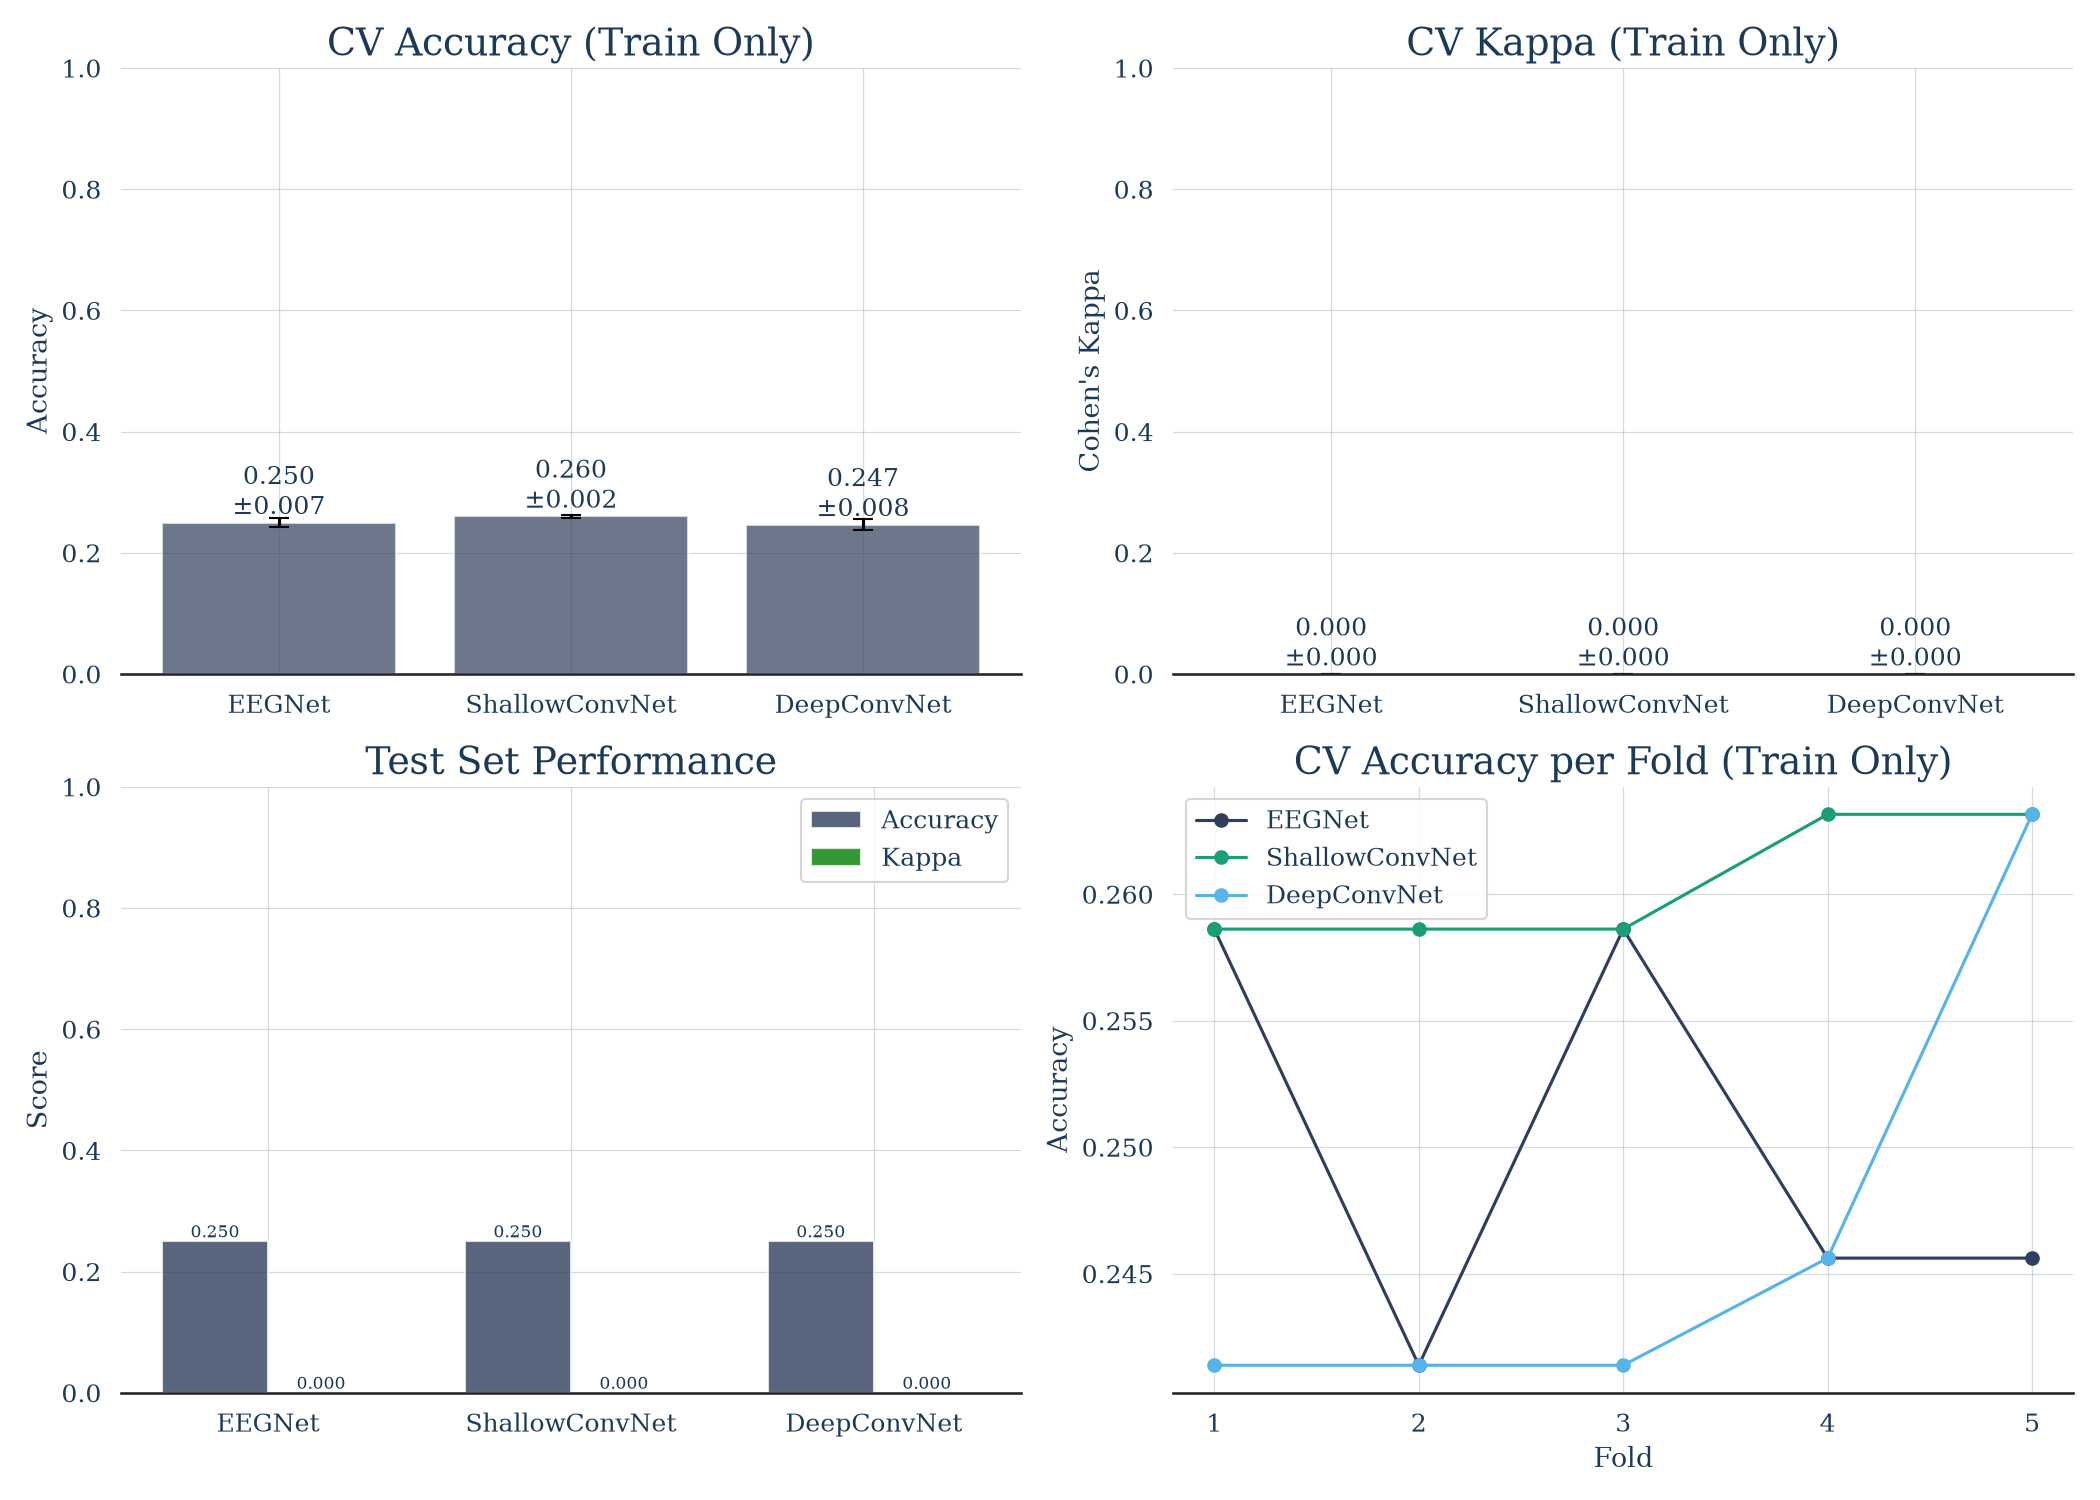
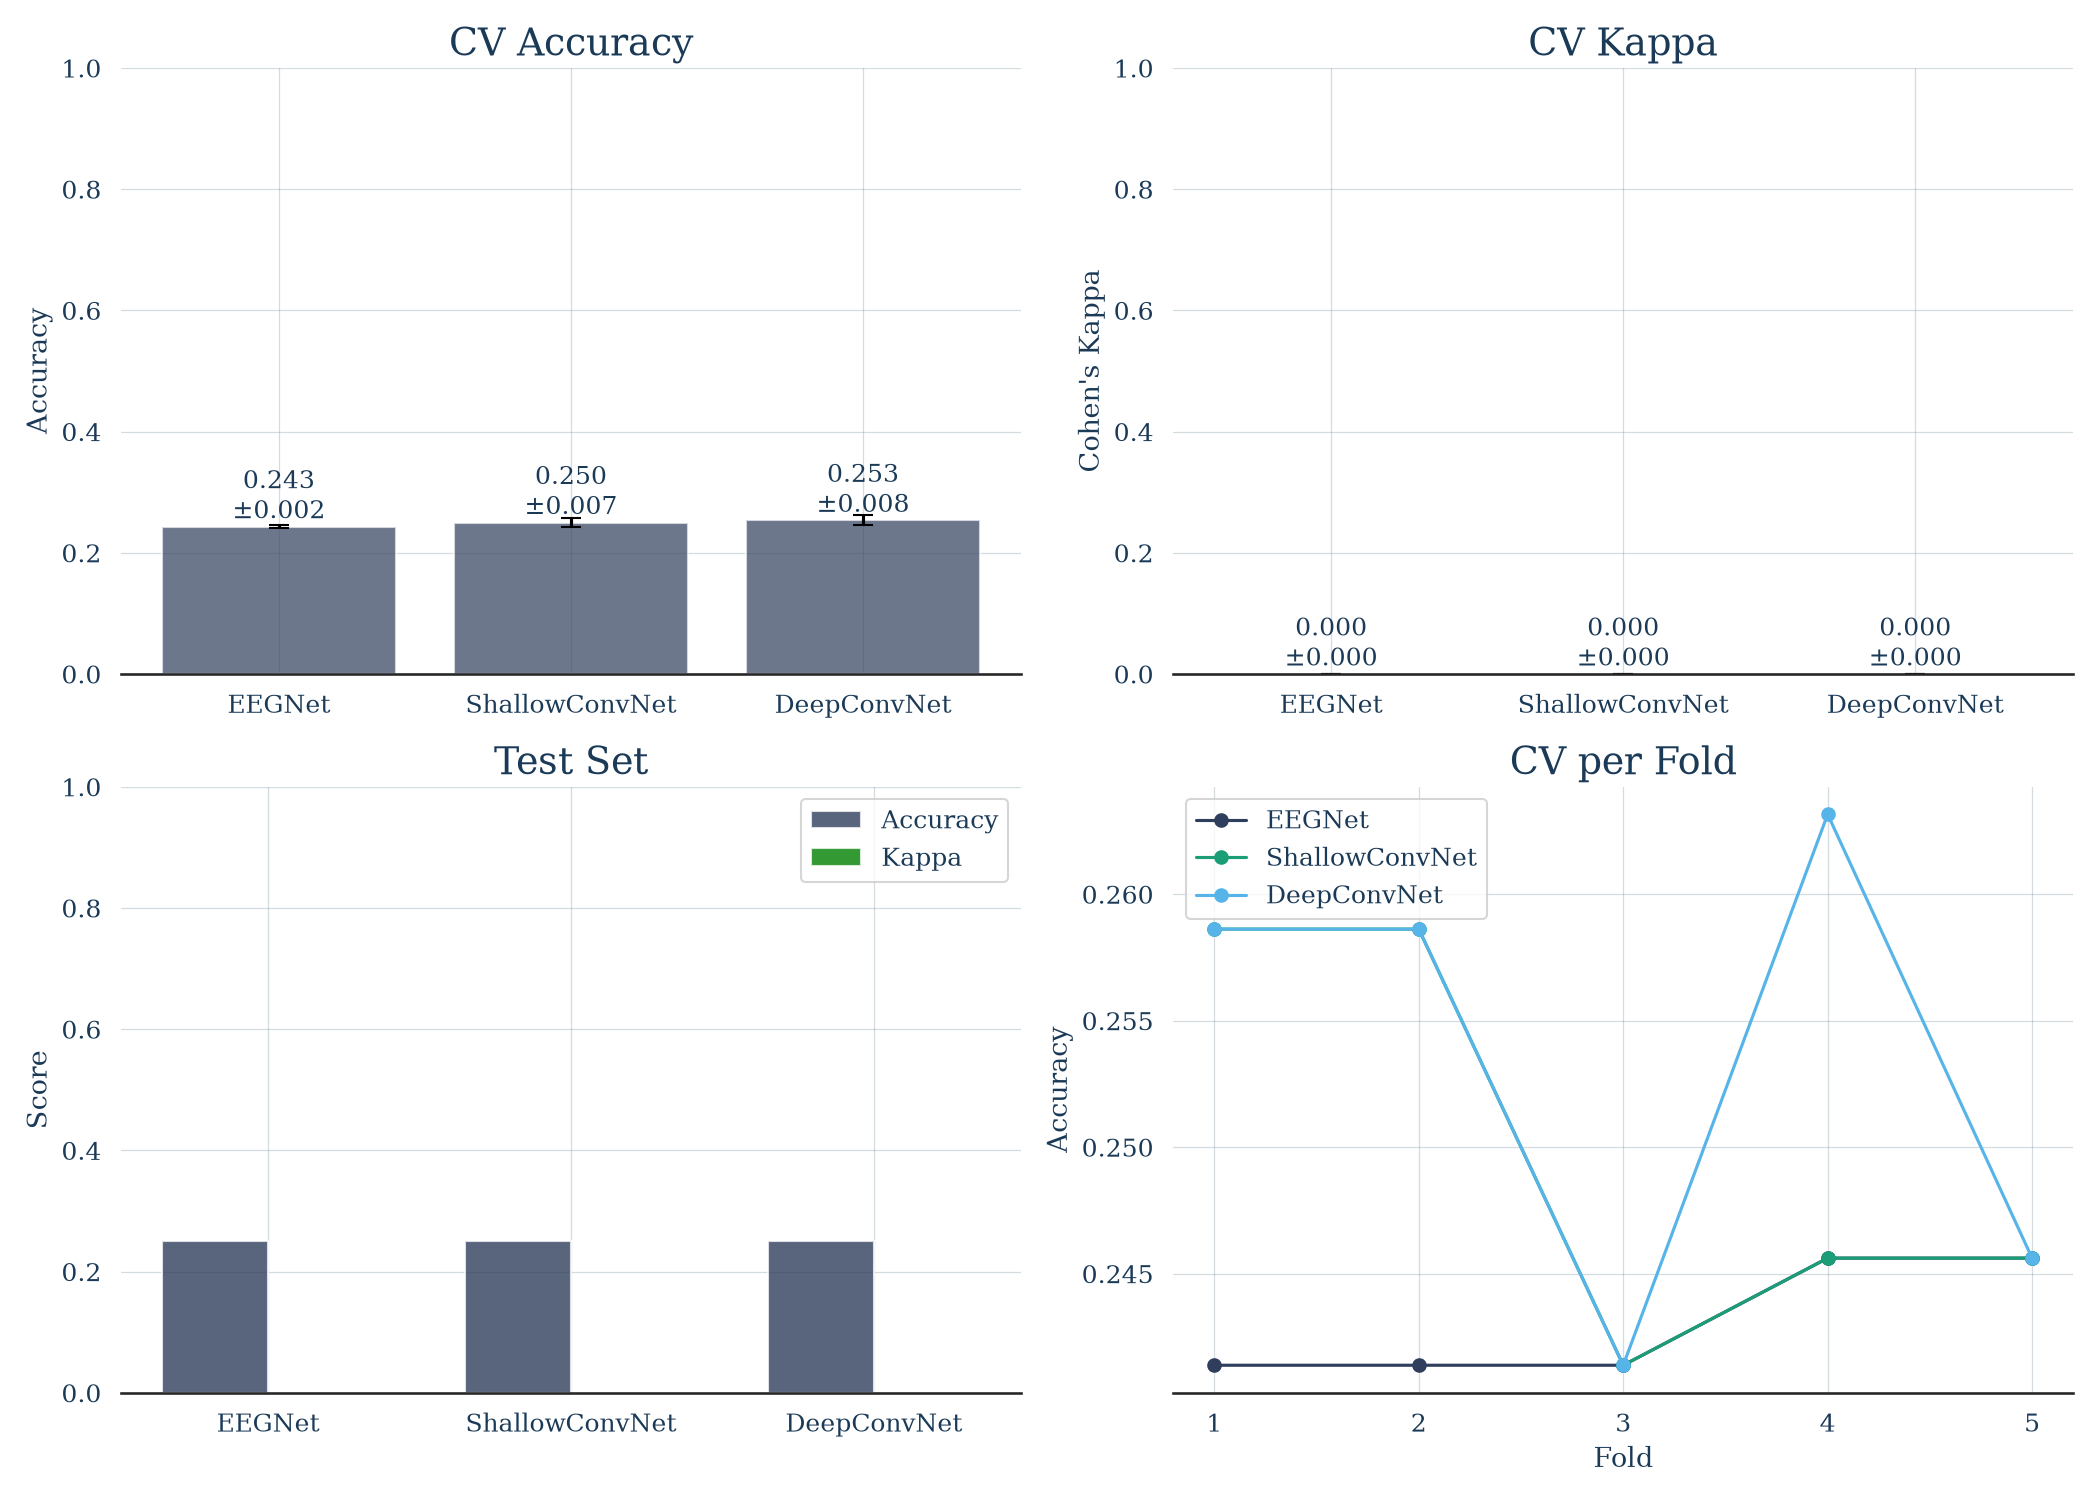
feat: 新增EEG运动想象解码脚本并更新结果文件
新增07_new_project.py完整的脑电解码实验脚本，包含数据加载预处理、模型搭建、交叉验证、测试集评估和结果可视化，同时更新了对应的结果CSV和图片文件

diff --git a/07_new_project.py b/07_new_project.py
@@ -1,0 +1,238 @@
+import numpy as np
+import torch
+import pandas as pd
+import matplotlib.pyplot as plt
+from braindecode import EEGClassifier
+from braindecode.datasets import MOABBDataset
+from braindecode.preprocessing import (
+    preprocess,
+    PickTypes,
+    Filter,
+    Resample,
+    Rescale,
+    SetEEGReference,
+    create_windows_from_events,
+)
+from braindecode.models import EEGNet, ShallowFBCSPNet, Deep4Net
+from skorch.callbacks import EarlyStopping
+from skorch.helper import predefined_split
+from sklearn.model_selection import StratifiedKFold, train_test_split
+from sklearn.metrics import accuracy_score, cohen_kappa_score
+from torch.utils.data import TensorDataset
+import mne
+
+print("=" * 60)
+print("EEG Motor Imagery Decoding with braindecode API")
+print("=" * 60)
+
+CONFIG = {
+    "subject_id": 1,
+    "n_classes": 4,
+    "n_channels": 22,
+    "sfreq": 128,
+    "n_times": 512,
+    "dropout": 0.3,
+    "batch_size": 32,
+    "n_epochs": 50,
+    "lr": 0.001,
+    "weight_decay": 1e-4,
+    "patience": 15,
+    "n_folds": 5,
+    "random_seed": 42,
+}
+
+torch.manual_seed(CONFIG["random_seed"])
+np.random.seed(CONFIG["random_seed"])
+
+device = "cuda" if torch.cuda.is_available() else ("mps" if torch.backends.mps.is_available() else "cpu")
+print(f"Device: {device}")
+
+print("\n[1/5] Loading & preprocessing data...")
+mne.set_log_level("ERROR")
+dataset = MOABBDataset("BNCI2014_001", subject_ids=[CONFIG["subject_id"]])
+
+preprocess(dataset, [
+    PickTypes(eeg=True, misc=False),
+    Filter(l_freq=4.0, h_freq=38.0),
+    Resample(sfreq=CONFIG["sfreq"]),
+    SetEEGReference(ref_channels="average"),
+    Rescale(scalings=1e-6),
+])
+
+windows_dataset = create_windows_from_events(
+    dataset,
+    trial_start_offset_samples=0,
+    trial_stop_offset_samples=0,
+    window_size_samples=CONFIG["n_times"],
+    window_stride_samples=CONFIG["n_times"],
+    preload=True,
+)
+
+splits = windows_dataset.split("session")
+train_key = test_key = None
+for key in splits.keys():
+    ks = str(key).lower()
+    if "train" in ks:
+        train_key = key
+    elif "test" in ks:
+        test_key = key
+if not train_key or not test_key:
+    keys = list(splits.keys())
+    train_key, test_key = keys[0], keys[1]
+
+train_ds = splits[train_key]
+test_ds = splits[test_key]
+print(f"Train: {len(train_ds)} samples | Test: {len(test_ds)} samples")
+
+X_train_cv = np.array([train_ds[i][0] for i in range(len(train_ds))])
+y_train_cv = np.array([train_ds[i][1] for i in range(len(train_ds))])
+X_test = np.array([test_ds[i][0] for i in range(len(test_ds))])
+y_test = np.array([test_ds[i][1] for i in range(len(test_ds))])
+
+print("\n[2/5] Setting up models...")
+model_configs = {
+    "EEGNet": dict(
+        n_chans=CONFIG["n_channels"], n_times=CONFIG["n_times"],
+        n_outputs=CONFIG["n_classes"], F1=8, F2=16, D=2,
+        kernel_length=64, pool1_kernel_size=4, pool2_kernel_size=8,
+        drop_prob=CONFIG["dropout"],
+    ),
+    "ShallowConvNet": dict(
+        n_chans=CONFIG["n_channels"], n_times=CONFIG["n_times"],
+        n_outputs=CONFIG["n_classes"],
+    ),
+    "DeepConvNet": dict(
+        n_chans=CONFIG["n_channels"], n_times=CONFIG["n_times"],
+        n_outputs=CONFIG["n_classes"],
+    ),
+}
+
+model_classes = {
+    "EEGNet": EEGNet,
+    "ShallowConvNet": ShallowFBCSPNet,
+    "DeepConvNet": Deep4Net,
+}
+
+for name, cls in model_classes.items():
+    m = cls(**model_configs[name])
+    print(f"  {name}: {sum(p.numel() for p in m.parameters()):,} params")
+
+def make_classifier(model_class, model_cfg, valid_ds=None):
+    model = model_class(**model_cfg)
+    callbacks = [EarlyStopping(patience=CONFIG["patience"], monitor="valid_loss")] if valid_ds else []
+    return EEGClassifier(
+        model,
+        max_epochs=CONFIG["n_epochs"],
+        optimizer__lr=CONFIG["lr"],
+        optimizer__weight_decay=CONFIG["weight_decay"],
+        batch_size=CONFIG["batch_size"],
+        device=device,
+        callbacks=callbacks,
+        train_split=predefined_split(valid_ds) if valid_ds else None,
+    )
+
+print("\n[3/5] Cross-validation...")
+skf = StratifiedKFold(n_splits=CONFIG["n_folds"], shuffle=True, random_state=CONFIG["random_seed"])
+cv_results = {name: [] for name in model_classes}
+
+for fold, (train_idx, val_idx) in enumerate(skf.split(X_train_cv, y_train_cv)):
+    X_tr, X_val = X_train_cv[train_idx], X_train_cv[val_idx]
+    y_tr, y_val = y_train_cv[train_idx], y_train_cv[val_idx]
+    print(f"\nFold {fold+1}/{CONFIG['n_folds']} | Train:{len(X_tr)} Val:{len(X_val)}")
+
+    X_val_t = torch.from_numpy(X_val).float()
+    y_val_t = torch.from_numpy(y_val).long()
+    valid_ds = TensorDataset(X_val_t, y_val_t)
+
+    for model_name in model_classes:
+        print(f"  {model_name}...", end=" ")
+        clf = make_classifier(model_classes[model_name], model_configs[model_name], valid_ds)
+        clf.fit(torch.from_numpy(X_tr).float(), torch.from_numpy(y_tr).long())
+        y_pred = clf.predict(X_val_t)
+        acc = accuracy_score(y_val, y_pred)
+        kappa = cohen_kappa_score(y_val, y_pred)
+        cv_results[model_name].append({"accuracy": acc, "kappa": kappa})
+        print(f"Acc={acc:.4f}, Kappa={kappa:.6f}")
+
+print("\n[4/5] Final test-set evaluation...")
+test_results = {}
+
+for model_name in model_classes:
+    print(f"\n  {model_name}...")
+    X_tr, X_val, y_tr, y_val = train_test_split(
+        X_train_cv, y_train_cv, test_size=0.1,
+        random_state=CONFIG["random_seed"], stratify=y_train_cv
+    )
+    X_val_t = torch.from_numpy(X_val).float()
+    y_val_t = torch.from_numpy(y_val).long()
+    valid_ds = TensorDataset(X_val_t, y_val_t)
+    clf = make_classifier(model_classes[model_name], model_configs[model_name], valid_ds)
+    clf.fit(torch.from_numpy(X_tr).float(), torch.from_numpy(y_tr).long())
+    y_pred = clf.predict(torch.from_numpy(X_test).float())
+    acc = accuracy_score(y_test, y_pred)
+    kappa = cohen_kappa_score(y_test, y_pred)
+    test_results[model_name] = {"accuracy": acc, "kappa": kappa}
+    print(f"    Test Acc={acc:.4f}, Kappa={kappa:.6f}")
+
+print("\n[5/5] Summary & visualization...")
+summary = []
+for model_name in model_classes:
+    fr = cv_results[model_name]
+    if fr:
+        accs = [r["accuracy"] for r in fr]
+        kappas = [r["kappa"] for r in fr]
+        summary.append({
+            "Model": model_name,
+            "CV Acc (mean)": np.mean(accs),
+            "CV Acc (std)": np.std(accs),
+            "CV Kappa (mean)": np.mean(kappas),
+            "CV Kappa (std)": np.std(kappas),
+            "Test Acc": test_results[model_name]["accuracy"],
+            "Test Kappa": test_results[model_name]["kappa"],
+        })
+
+df = pd.DataFrame(summary)
+print("\n" + df.to_string(index=False))
+
+plt.rcParams["font.sans-serif"] = ["Helvetica"]
+fig, axes = plt.subplots(2, 2, figsize=(14, 10))
+models = [s["Model"] for s in summary]
+
+ax = axes[0, 0]
+acc_m, acc_s = [s["CV Acc (mean)"] for s in summary], [s["CV Acc (std)"] for s in summary]
+bars = ax.bar(models, acc_m, yerr=acc_s, capsize=5, alpha=0.7)
+ax.set_ylabel("Accuracy"); ax.set_title("CV Accuracy"); ax.set_ylim([0,1])
+ax.grid(True, alpha=0.3)
+for b, m, s in zip(bars, acc_m, acc_s):
+    ax.text(b.get_x()+b.get_width()/2, b.get_height(), f"{m:.3f}\n±{s:.3f}", ha="center", va="bottom")
+
+ax = axes[0, 1]
+kap_m, kap_s = [s["CV Kappa (mean)"] for s in summary], [s["CV Kappa (std)"] for s in summary]
+bars = ax.bar(models, kap_m, yerr=kap_s, capsize=5, alpha=0.7, color="orange")
+ax.set_ylabel("Cohen's Kappa"); ax.set_title("CV Kappa"); ax.set_ylim([0,1])
+ax.grid(True, alpha=0.3)
+for b, m, s in zip(bars, kap_m, kap_s):
+    ax.text(b.get_x()+b.get_width()/2, b.get_height(), f"{m:.3f}\n±{s:.3f}", ha="center", va="bottom")
+
+ax = axes[1, 0]
+tacc = [s["Test Acc"] for s in summary]
+tkap = [s["Test Kappa"] for s in summary]
+x = np.arange(len(models)); w = 0.35
+ax.bar(x-w/2, tacc, w, label="Accuracy", alpha=0.8)
+ax.bar(x+w/2, tkap, w, label="Kappa", alpha=0.8, color="green")
+ax.set_ylabel("Score"); ax.set_title("Test Set"); ax.set_xticks(x); ax.set_xticklabels(models)
+ax.set_ylim([0,1]); ax.legend(); ax.grid(True, alpha=0.3)
+
+ax = axes[1, 1]
+for mn, fr in cv_results.items():
+    if fr:
+        ax.plot(range(1,len(fr)+1), [r["accuracy"] for r in fr], marker="o", label=mn)
+ax.set_xlabel("Fold"); ax.set_ylabel("Accuracy"); ax.set_title("CV per Fold")
+ax.legend(); ax.grid(True, alpha=0.3); ax.set_xticks(range(1, CONFIG["n_folds"]+1))
+
+plt.tight_layout()
+plt.savefig("project_results.png", dpi=150)
+plt.close()
+df.to_csv("project_results.csv", index=False)
+print("\nSaved: project_results.png, project_results.csv")
+print("Done!")
